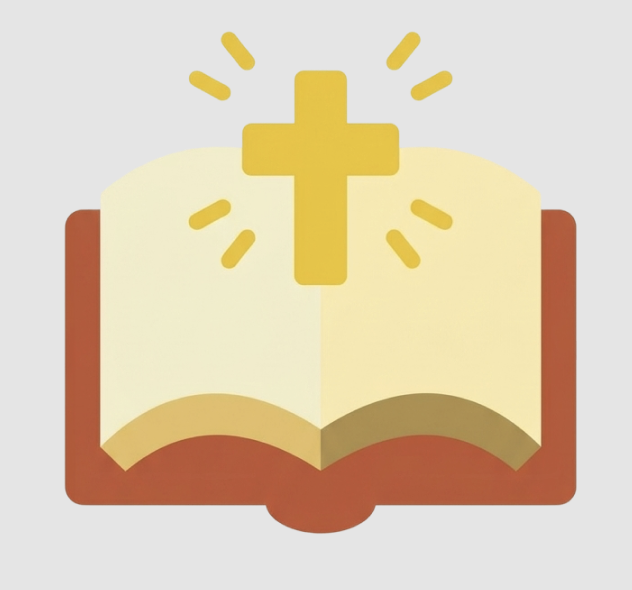
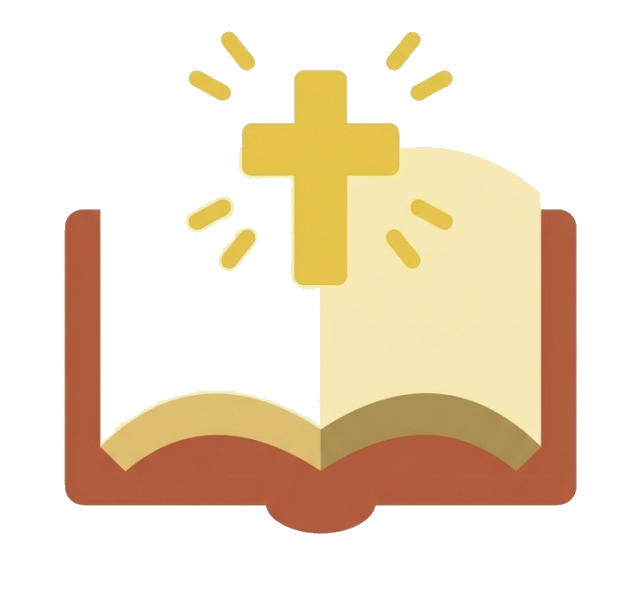
Elimina fondo del icono biblia

diff --git a/components/VerseOfDay.tsx b/components/VerseOfDay.tsx
@@ -17,7 +17,7 @@ export default function VerseOfDay() {
           letterSpacing: "-0.2px",
           marginBottom: "28px",
         }}>
-          <Image src="/bible-icon.png" alt="" width={30} height={30} style={{ flexShrink: 0, mixBlendMode: "multiply" }} />
+          <Image src="/bible-icon.png" alt="" width={30} height={30} style={{ flexShrink: 0 }} />
           Versículo del día
         </h2>
 
